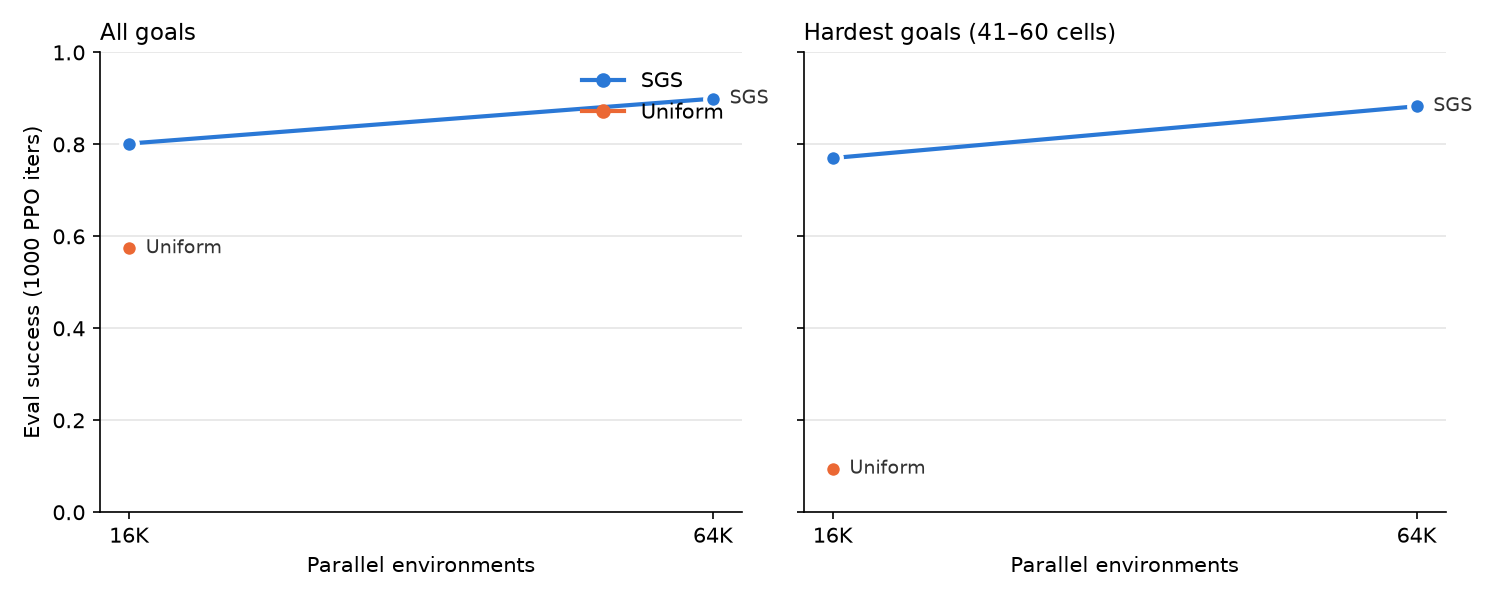
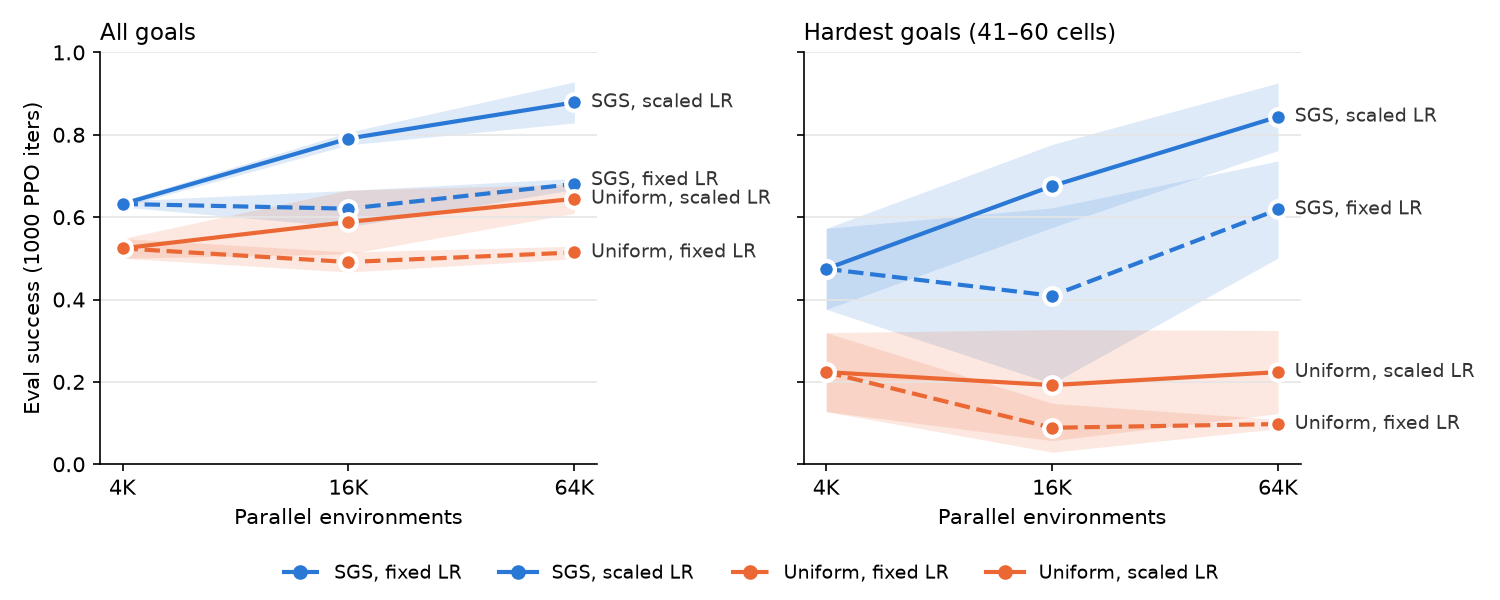
LR-scaling results: SGS climbs 0.63 -> 0.79 -> 0.88 with scale; 128K cancelled
- plot.py: fixed vs scaled LR series, legend below, non-overlapping labels
- README: learning-rate section, updated reproduction verdict, demo
  comparison vs 3-seed LR baseline, GPU budget (~27 h, 106 runs)

diff --git a/plot.py b/plot.py
@@ -1,5 +1,7 @@
 """Scaling plot: final eval success vs parallel envs per sampler (mean ± std over seeds). Writes <first dir>/scaling.png.
-    python plot.py [dir ...]   (default: runs_sweep runs_plr_b1)"""
+    python plot.py [dir ...] [--only sgs,uniform]   (default: runs_sweep runs_plr_b1)
+Runs with a non-default --lr become a separate "scaled LR" series (solid) and the default-LR series turn dashed;
+the 4K point is shared because the sqrt rule gives the default LR at 4K."""
 import glob, json, sys
 from collections import defaultdict
 
@@ -8,7 +10,10 @@ matplotlib.use("Agg")
 import matplotlib.pyplot as plt
 import numpy as np
 
-srcs = sys.argv[1:] or ["runs_sweep", "runs_plr_b1"]
+argv = sys.argv[1:]
+only = argv.pop(argv.index("--only") + 1).split(",") if "--only" in argv else None
+argv = [a for a in argv if a != "--only"]
+srcs = argv or ["runs_sweep", "runs_plr_b1"]
 src = srcs[0]
 res = defaultdict(list)  # (sampler, E) -> [(overall, longest-bin)]
 for f in [f for d in srcs for f in glob.glob(f"{d}/*.json")]:
@@ -16,15 +21,28 @@ for f in [f for d in srcs for f in glob.glob(f"{d}/*.json")]:
     m = r["args"]["sampler"]
     if m == "plr":
         m = f"plr{r['args'].get('plr_beta', 0.1):g}"
+    if only and m not in only:
+        continue
+    if r["args"]["lr"] != 3e-4:
+        m += "+lr"
     last = r["log"][-1]
     res[m, r["args"]["num_envs"]].append((last["eval_success"], last["eval_by_dist"]["41-60"]))
 
 colors = {"sgs": "#2a78d6", "uniform": "#eb6834", "plr1": "#1baf7a", "plr0.1": "#eda100"}
 names = {"sgs": "SGS", "uniform": "Uniform", "plr1": "PLR (β=1)", "plr0.1": "PLR (β=0.1)"}
-present = [s for s in colors if any(m == s for m, _ in res)]
+scaled = {m for m, _ in res if m.endswith("+lr")}
+for m in scaled:  # 4K: sqrt rule gives the default LR, so share that point
+    if (m[:-3], 4096) in res and (m, 4096) not in res:
+        res[m, 4096] = res[m[:-3], 4096]
+for m in scaled:
+    colors[m], names[m] = colors[m[:-3]], names[m[:-3]] + ", scaled LR"
+    names[m[:-3]] += ", fixed LR"
+order = [b + sfx for b in ("sgs", "plr1", "uniform", "plr0.1") for sfx in ("", "+lr")]
+present = [s for s in order if any(m == s for m, _ in res)]
 all_E = sorted({E for _, E in res})
 fig, axes = plt.subplots(1, 2, figsize=(10, 4), sharey=True)
 for ax, k, title in zip(axes, (0, 1), ("All goals", "Hardest goals (41–60 cells)")):
+    labels = []
     for s in present:
         Es = sorted(E for (m, E) in res if m == s)
         if not Es:
@@ -32,9 +50,14 @@ for ax, k, title in zip(axes, (0, 1), ("All goals", "Hardest goals (41–60 cell
         v = [np.array([x[k] for x in res[s, E]]) for E in Es]
         mu, sd = np.array([a.mean() for a in v]), np.array([a.std() for a in v])
         ax.fill_between(Es, mu - sd, mu + sd, color=colors[s], alpha=0.15, lw=0)
-        ax.plot(Es, mu, color=colors[s], lw=2, marker="o", ms=8, mec="white", mew=2)
-        ax.annotate(names[s], (Es[-1], mu[-1]), xytext=(8, 0),
-                    textcoords="offset points", va="center", color="#333", fontsize=9)
+        ls = "--" if s + "+lr" in scaled else "-"
+        ax.plot(Es, mu, color=colors[s], lw=2, ls=ls, marker="o", ms=8, mec="white", mew=2)
+        labels.append([mu[-1], Es[-1], names[s]])
+    labels.sort()
+    for a, b in zip(labels, labels[1:]):  # keep end labels >= 0.045 apart
+        b[0] = max(b[0], a[0] + 0.045)
+    for y, x, text in labels:
+        ax.annotate(text, (x, y), xytext=(8, 0), textcoords="offset points", va="center", color="#333", fontsize=9)
     ax.set_xscale("log", base=2)
     ax.set_xticks(all_E, [f"{E // 1024}K" for E in all_E])
     ax.set_title(title, loc="left", fontsize=11)
@@ -44,9 +67,10 @@ for ax, k, title in zip(axes, (0, 1), ("All goals", "Hardest goals (41–60 cell
     for sp in ("top", "right"):
         ax.spines[sp].set_visible(False)
 axes[0].set_ylabel("Eval success (1000 PPO iters)")
-axes[0].legend(handles=[plt.Line2D([], [], color=colors[s], lw=2, marker="o", label=names[s]) for s in present],
-               frameon=False, loc="upper right")
-fig.tight_layout()
+fig.legend(handles=[plt.Line2D([], [], color=colors[s], lw=2, ls="--" if s + "+lr" in scaled else "-", marker="o",
+                                    label=names[s]) for s in present],
+               frameon=False, loc="lower center", ncol=len(present), fontsize=9)
+fig.tight_layout(rect=(0, 0.08, 1, 1))
 fig.savefig(f"{src}/scaling.png", dpi=150)
 for key in sorted(res):
     a = np.array(res[key])

diff --git a/README.md b/README.md
@@ -84,13 +84,14 @@ Final evaluation success after 1000 PPO iterations, mean ± std over 3 seeds (6 
 - **SGS beats uniform at every scale.** It leads by 11–17 points overall. On the hardest goals it does 2–6× better. All 6 SGS seeds at 16K beat all 6 uniform seeds overall.
 - **Uniform sampling gets nothing from scale.** Overall success stays flat at about 0.5 from 4K to 64K. Success on the hardest goals *drops* from 0.22 to about 0.1. This matches the paper's diagnosis: the minibatch count is fixed, so larger batches only average more already-solved configurations into the same number of gradient steps.
 - **SGS gets the most out of the largest scale.** At 64K, SGS reaches 0.62 on the hardest goals, against 0.10 for uniform.
+- **With the learning rate scaled to batch size, SGS improves steadily with scale**: 0.63 → 0.79 → 0.88 overall from 4K to 64K, and 0.47 → 0.68 → 0.84 on the hardest goals. Uniform improves only modestly overall and stays flat at about 0.2 on the hardest goals. This is the paper's main claim. See [Learning-rate scaling](#learning-rate-scaling).
 - **SGS beats PLR at every scale (Q1), when PLR is given a sensible temperature.** Only SGS improves with more environments; PLR and uniform stay flat. See [PLR baseline](#plr-baseline).
 - **Not specific to one maze.** SGS beats uniform by 12–13 points on each of 4 other layouts. See [Other maze layouts](#other-maze-layouts).
 - **Capability at small scale (Q2).** Even at 4K, SGS solves roughly twice as many of the hardest goals as uniform. A separate single-seed run on a smaller 6×6 maze showed the same pattern: 0.46 vs 0.24 on long goals.
 
 ### What didn't (cleanly) reproduce
 
-- **Steady improvement with scale.** With 3 seeds, SGS appeared to dip at 16K. Three more seeds showed the dip is mostly one bad seed. Per-seed results on the hardest goals at 16K are 0.35, **0.04**, 0.57, 0.27, 0.66 and 0.57 (median about 0.46, level with 4K). So the curve is flat from 4K to 16K and then rises at 64K. That's not the steady climb the paper reports.
+- **Steady improvement with scale, at a fixed learning rate.** With the learning rate fixed at 3e-4, SGS is flat from 4K to 16K and only rises at 64K. Six seeds at 16K showed the apparent dip is mostly one bad seed (hardest-goal results 0.35, **0.04**, 0.57, 0.27, 0.66, 0.57). Once the learning rate is scaled with batch size, the steady climb appears (see below), so the fixed learning rate was holding SGS back.
 - **SGS has a failure mode.** About 1 seed in 6 never solves the long goals. Uniform never solves them well on any seed either.
 
 ### PLR baseline
@@ -115,6 +116,22 @@ Seeds: PLR β=1 has 3 per point; PLR β=0.1 has 2, 2 and 1 (cancelled early).
 **The default PLR temperature (β=0.1) breaks at this scale.**
 
 With β=0.1, PLR does **much worse than uniform**. This comes from the default setting, not a code bug. PLR weights configs by rank^(−1/β) = rank^(−10). With 32,768 configs that sends **about 90% of all resets to the single highest-scoring config**, so each batch of 4K+ environments is nearly one task. PLR's defaults were tuned for about 64 environments. The paper doesn't say which PLR settings it used, but its PLR roughly matches uniform on most tasks, so it can't have been this degenerate. With β=1, about 8% of resets go to the top config. That's the fair comparison above.
+
+### Learning-rate scaling
+
+The main sweep keeps the learning rate at 3e-4 while the batch grows 16×, so larger runs take the same number of equally sized gradient steps on much bigger batches. Does that hide the benefit of scale? Here the learning rate grows with the square root of the batch size: 3e-4 at 4K (unchanged), 6e-4 at 16K, and 1.2e-3 at 64K. 3 seeds each.
+
+| Envs | SGS, all goals | Uniform, all goals | SGS, hardest goals | Uniform, hardest goals |
+|---|---|---|---|---|
+| 4K | 0.63 ± 0.01 | 0.52 ± 0.02 | 0.47 ± 0.10 | 0.22 ± 0.10 |
+| 16K | **0.79** ± 0.02 | 0.59 ± 0.08 | **0.68** ± 0.10 | 0.19 ± 0.14 |
+| 64K | **0.88** ± 0.05 | 0.65 ± 0.04 | **0.84** ± 0.08 | 0.22 ± 0.10 |
+
+![Fixed vs scaled learning rate](runs_lr/scaling.png)
+
+- **Scaling the learning rate turns SGS's curve into a steady climb.** Overall success rises from 0.63 at 4K to 0.88 at 64K; on the hardest goals it rises from 0.47 to 0.84.
+- **Uniform gains about 13 points overall, but none on the hardest goals.** It stays around 0.2, so the extra data goes to configs it can already solve.
+- **The gap widens with scale:** 11 points at 4K, 20 at 16K, 23 at 64K overall, and from 0.25 to 0.62 on the hardest goals. A larger learning rate makes better use of a large batch only when the batch is full of useful configs, which is what SGS provides.
 
 ### Other maze layouts
 
@@ -179,9 +196,9 @@ The paper deliberately avoids demonstrations and shaped rewards. This section as
 | SGS, 4K | 0.63 ± 0.01 | 0.47 ± 0.10 |
 | **SGS + demos, 4K** | **0.81** ± 0.01 | **0.81** ± 0.05 |
 | SGS, 64K (fixed LR) | 0.68 ± 0.01 | 0.62 ± 0.12 |
-| SGS, 64K (scaled LR, 2 seeds) | 0.86 ± 0.05 | 0.81 ± 0.08 |
+| SGS, 64K (scaled LR) | 0.88 ± 0.05 | 0.84 ± 0.08 |
 
-- **Demos on 1% of configs are worth more than 16× the environments.** SGS + demos at 4K matches SGS at 64K with a tuned learning rate on the hardest goals (0.81 vs 0.81), and comes close overall (0.81 vs 0.86). At **1K** environments, SGS + demos (0.77) already beats SGS at 64K with a fixed learning rate (0.68), a 64× smaller run.
+- **Demos on 1% of configs are worth roughly 16× the environments.** SGS + demos at 4K nearly matches SGS at 64K with a scaled learning rate on the hardest goals (0.81 vs 0.84), and comes within 7 points overall (0.81 vs 0.88). At **1K** environments, SGS + demos (0.77) already beats SGS at 64K with a fixed learning rate (0.68), a 64× smaller run.
 - **Demos mostly close the SGS–uniform gap overall** (0.81 vs 0.80), but SGS keeps a clear edge on the hardest goals (0.81 vs 0.61). The demos supply the exploration that SGS was providing, but SGS still steers practice toward the long goals.
 - Caveat: a perfect expert is cheap here because the maze is fully known. With real robots, demos come from teleoperation and are imperfect, so 1% of configs is a small but not free budget.
 
@@ -218,20 +235,22 @@ The 8×8 maze was chosen so that uniform sampling plateaus around 50% instead of
 
 ## Next steps
 
-**Running now:** [next3.sh](next3.sh), in this order (resumable, logs to `next.log`):
+**Nothing is running.** The last queue, [next3.sh](next3.sh), has finished (logs in `next.log`):
 
 | # | Experiment | Why | Est. GPU time | Status |
 |---|---|---|---|---|
 | 1 | **PLR with β=1.0**, 4K/16K/64K × 3 seeds | Fair version of the paper's main baseline (see above) | ~4 h | **Done** |
 | 2 | **4 more maze layouts** (`--maze-seed 1..4`) × {SGS, uniform, PLR β=1}, 4K | Check that the result isn't specific to one maze | ~1 h | **Done** |
-| 3 | **Learning rate scaled with batch size** (√ rule: 6e-4 at 16K, 1.2e-3 at 64K) × {SGS, uniform} × 3 seeds | Rule out that uniform's flat curve is a fixed-LR artifact | ~7.5 h | Running (paused once for the prior-knowledge runs) |
+| 3 | **Learning rate scaled with batch size** (√ rule: 6e-4 at 16K, 1.2e-3 at 64K) × {SGS, uniform} × 3 seeds | Rule out that uniform's flat curve is a fixed-LR artifact | ~7.5 h | **Done** (paused once for the prior-knowledge runs) |
 | 4 | **128K environments** × {SGS, uniform} × 3 seeds | One more step on the scaling curve | ~12 h | **Cancelled** (too many GPU-hours) |
 
 Afterwards, possibly: **FetchPush** (Gymnasium-Robotics) with SGS vs uniform vs HER, as a real manipulation task. That one is CPU-bound and would take days.
 
-**Done:** 3 more seeds at 16K (resolved the dip, see above); PLR at β=0.1 (degenerate, see above); Acrobot (negative control, see above).
+**Also done:** 3 more seeds at 16K (resolved the dip); PLR at β=0.1 (degenerate); Acrobot (negative control); prior-knowledge experiments (maze demos, Acrobot reverse resets). See above for each.
 
-`plot.py` reads `runs_sweep/` and `runs_plr_b1/` by default and picks up new JSON files automatically. Pass directories to plot another set, for example `plot.py runs_lr`.
+**Open ideas:** check which part of the pool SGS samples when Acrobot reverse resets are mixed in; demos with imperfect, noisy experts; demos at even smaller scales (256 envs).
+
+`plot.py` reads `runs_sweep/` and `runs_plr_b1/` by default and picks up new JSON files automatically. `plot.py runs_lr runs_sweep --only sgs,uniform` draws the learning-rate comparison.
 
 ## Running it
 
@@ -249,7 +268,7 @@ uv pip install --python .venv/bin/python numpy matplotlib
 
 ## GPU budget
 
-So far everything here has used **about 13 hours of one RTX 4060 Ti**:
+Everything here used **about 27 hours of one RTX 4060 Ti**:
 
 | Phase | Runs | GPU wall-clock |
 |---|---|---|
@@ -258,9 +277,13 @@ So far everything here has used **about 13 hours of one RTX 4060 Ti**:
 | 3 more seeds at 16K | 6 | 1.6 h |
 | PLR β=0.1 (cancelled after 5 runs) | 5 | ~1.9 h |
 | Acrobot calibration and seeds | 17 | ~0.8 h (2–4 runs shared the GPU at a time) |
-| **Total so far** | **55** | **~13 h** |
+| PLR β=1 | 9 | 4.0 h |
+| Other maze layouts | 12 | 1.0 h |
+| Learning-rate scaling | 12 | ~7.4 h (excluding the pause) |
+| Prior knowledge (maze demos, Acrobot reverse resets) | 18 | 1.2 h (3 runs at a time) |
+| **Total** | **106** | **~27 h** |
 
-The queue under "Next steps" adds about 25 h.
+The 128K-environment runs (~12 h) were cancelled to save GPU time.
 
 Time per 1000-iteration run with the GPU to itself:
 
@@ -270,7 +293,7 @@ Time per 1000-iteration run with the GPU to itself:
 | 16K | ~15 min | 524 M |
 | 64K | ~60 min | 2.1 B |
 
-At 4K environments training uses about 0.7 GB of GPU memory. Memory at 64K wasn't logged. 128K should still fit in 16 GB, raising `--num-minibatches` if needed, so the practical limit is time. For comparison, a *single* locomotion run in the paper takes about 36 hours on multiple datacenter GPUs.
+Training uses about 0.7 GB of GPU memory at 4K environments and about 8 GB at 64K. So 128K would need more minibatches (`--num-minibatches`) to fit in 16 GB. For comparison, a *single* locomotion run in the paper takes about 36 hours on multiple datacenter GPUs.
 
 ## Files
 
